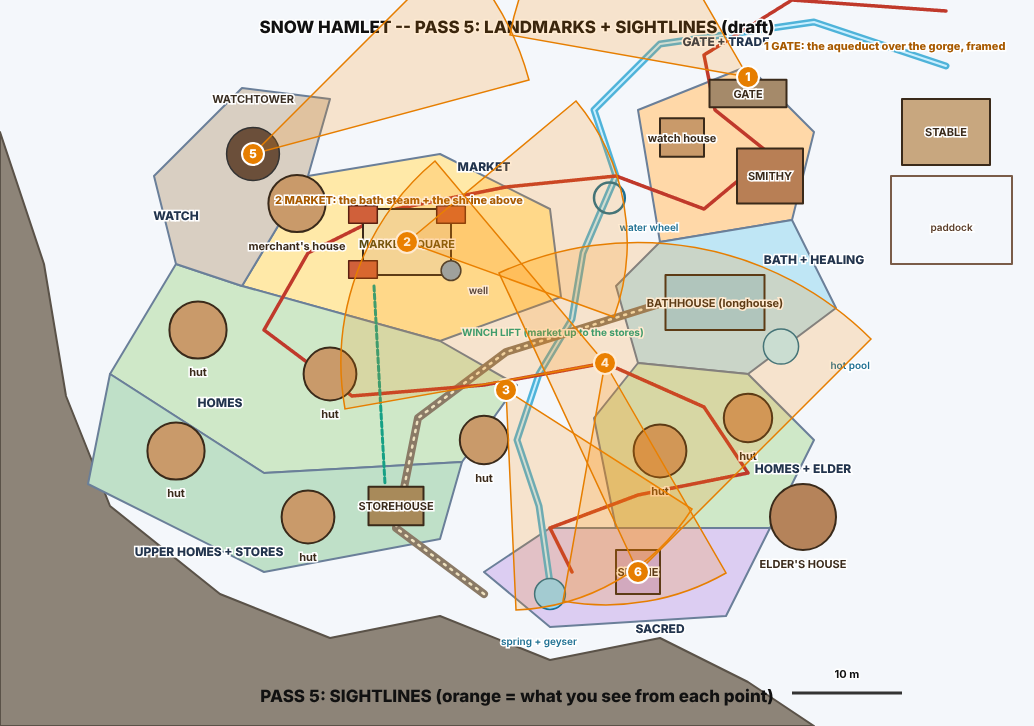
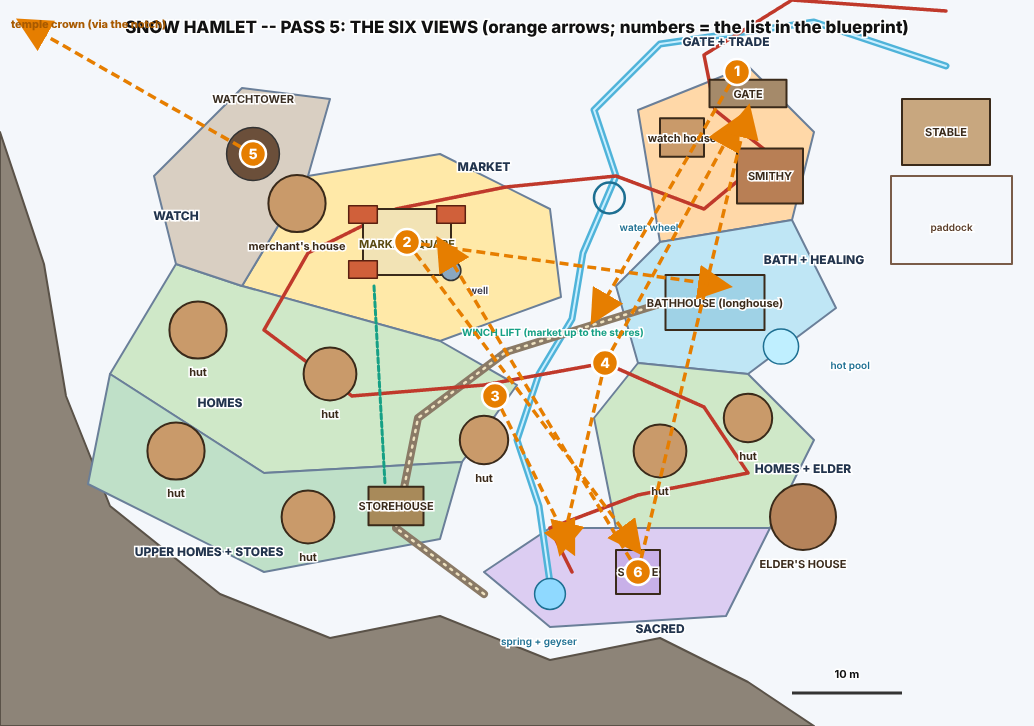
VILLAGE_BLUEPRINT: pass 5 drawing (six views), pass 6 the high route sized from the move table
Claude-Session: https://claude.ai/code/session_01FXzpagnksiDmMAqP3MTiXJ

diff --git a/VILLAGE_BLUEPRINT.md b/VILLAGE_BLUEPRINT.md
@@ -25,8 +25,8 @@ high jump 5.3; wall run UP lip 2.7 (run) / 3.6 (sprint); side wall run 5.5-6.5 m
 | 2 | **THE SITE** -- the ground it sits on | a terrain section: the tiers (heights), the water, the wind side, the cliff; where in the Snowfield | **approved** (gorge, horseshoe cliff, ~12 buildings) -- its PLACE on the region map waits on REGION_METHOD stage 1-2 |
 | 3 | **ZONES** -- what goes where, and why | a zoning map: each district placed by its reason (water, road, defence, status) | **drafted** (blueprint_pass3.png) |
 | 4 | **CIRCULATION** -- how people move | the main road (stairs only, everyone), the lanes, the dead ends, the gate; how the mammoth gets through | **drafted** |
-| 5 | **LANDMARKS + SIGHTLINES** | what you see from the gate, from each tier; the one thing visible from everywhere; framed views | |
-| 6 | **THE HIGH ROUTE** -- the parkour layer | the rooftop / aqueduct / tower route, each gap sized from the move table, a ladder (introduce -> combine); the hard-to-reach places and what is up there | |
+| 5 | **LANDMARKS + SIGHTLINES** | what you see from the gate, from each tier; the one thing visible from everywhere; framed views | **drafted** (measured) |
+| 6 | **THE HIGH ROUTE** -- the parkour layer | the rooftop / aqueduct / tower route, each gap sized from the move table, a ladder (introduce -> combine); the hard-to-reach places and what is up there | **drafted** |
 | 7 | **THE BUILDINGS** -- one row each | a placement table: id, kit piece + options, tier, door facing, who lives there | |
 | 8 | **LIFE** | who walks where, the market hours, smoke, lights at night, the animals, the mammoth stable | |
 | 9 | **THE GAME** | the quest givers (THE STOLEN ONES), the shop, the healer, the way out to the valley / temple, the secrets | |
@@ -243,3 +243,37 @@ up to the spring; 5 the WATCHTOWER top; 6 the SHRINE, the reward view: every roo
 - **The temple cannot be seen from the village as the map stands.** Even from the watchtower (16 m) a 60 m crown on the temple is hidden by one
   ridge point (22, -118, ground 54 m). So at blockout **a NOTCH is cut in that ridge (~10 m)**: from the watchtower top the temple's crown sits in the
   notch -- the first sight of where the game is going. (From the TEMPLE STAIR it is in plain view.)
+Drawing: `images/concepts/snow_village/blueprint_pass5.png` (the six views as arrows).
+
+## PASS 6 -- THE HIGH ROUTE (drafted; every gap from the MOVE TABLE in TEMPLE_KIT.md, at COMFY, never max)
+Drawing: `images/concepts/snow_village/blueprint_pass6.png` (purple, numbered as below).
+
+One continuous line over the hamlet from the gate to the watchtower, built as a LADDER (introduce -> develop -> twist -> combine), ending in a
+ride down. Heights: roofs = their terrace + the building (huts eave ~2.4, gable ridges ~4); the aqueduct deck +11; the watchtower top +16.
+
+| # | from -> to | rise / gap | move | comfy limit | ladder step |
+|---|---|---|---|---|---|
+| 1 | crates (0.9) -> the watch house eave (2.4) | +1.5 / 1 m | jump | 2.2 / 5.9 | INTRODUCE: up onto a roof |
+| 2 | eave -> the GATE top (4.5) | +2.1 / 2.5 m | run + jump | 2.2 / 5.9 | introduce: roof to wall |
+| 3 | gate top -> the SMITHY ridge (5.2) | +0.7 / 4.5 m gap | run + jump | 5.9 | DEVELOP: a real gap, over the road |
+| 4 | smithy -> the WATER WHEEL's paddle | -2 / 3 m | drop + jump | -- | develop: onto something MOVING |
+| 5 | ride the wheel: 2 m -> 6 m | (it lifts you) | stand, time the jump | -- | TWIST: timing |
+| 6 | wheel top (6.0) -> the BATHHOUSE roof (6.6, ridge 8.6) | +0.6 / 3.5 m | run + jump | 5.9 | develop |
+| 7 | bathhouse ridge (8.6) -> the AQUEDUCT deck (11) up a pier face | +2.4 | wall-run UP, run | lip 2.7 | DEVELOP: the first wall-up |
+| 8 | the deck across the gorge (11, over the road) -> the STOREHOUSE roof (11.4) | 6 m along the cliff | SIDE wall-run on the cliff | 5.5 (run) / 6.5 (sprint) | TWIST: a sprint, and the drop is 11 m |
+| 9 | storehouse -> U3 the high bridge (10) -> the watchtower foot | -1.4 / walk | -- | -- | a breather, the view |
+| 10 | up the WATCHTOWER (+6 to 16): the tower face and the knoll rock 4.6 m apart | +6 | CHIMNEY wall-jumps (4 kicks) | +1.7 a kick | COMBINE: everything learned, up high |
+| -> | the top: a ZIP LINE down to the market square | -10 | zip | -- | the reward ride, back to the start of the loop |
+
+**What is up there (each dead end pays):** R1 the gate top -- the gate banner, and the first look down the gorge; R2 the storehouse roof -- a coin
+stash by the winch head; R3 the watchtower top -- the temple's crown in the ridge notch (pass 5) + the zip; R4 behind the third fall (the gorge
+path, not the high route) -- a hidden alcove for something better (a piece of gear, his call).
+
+**Shortcuts off the road (the same moves, used to save time):** every terrace wall ~3 m = a SPRINT wall-up (lip 3.6), not a run (2.7) -- so a
+shortcut needs speed; the gorge, higher bank to lower: run + jump 5.9 (the banks are ~4-6 m apart at the bridges); the third fall's side, 3 m, a
+sprint wall-up = the back way to the shrine instead of the tunnel stair.
+
+**Rules checked:** no gap over its comfy distance; no ledge over its comfy height; the one hard move (8, the side run with an 11 m drop) has a soft
+fail -- you land on the W2 roofs, not in a pit (there is no fall damage; a hard landing costs 1.15 s).
+
+**Next: pass 7 -- the buildings, one row each** (kit piece + options, terrace, door facing, who lives there) -- the table the blockout is built from.
